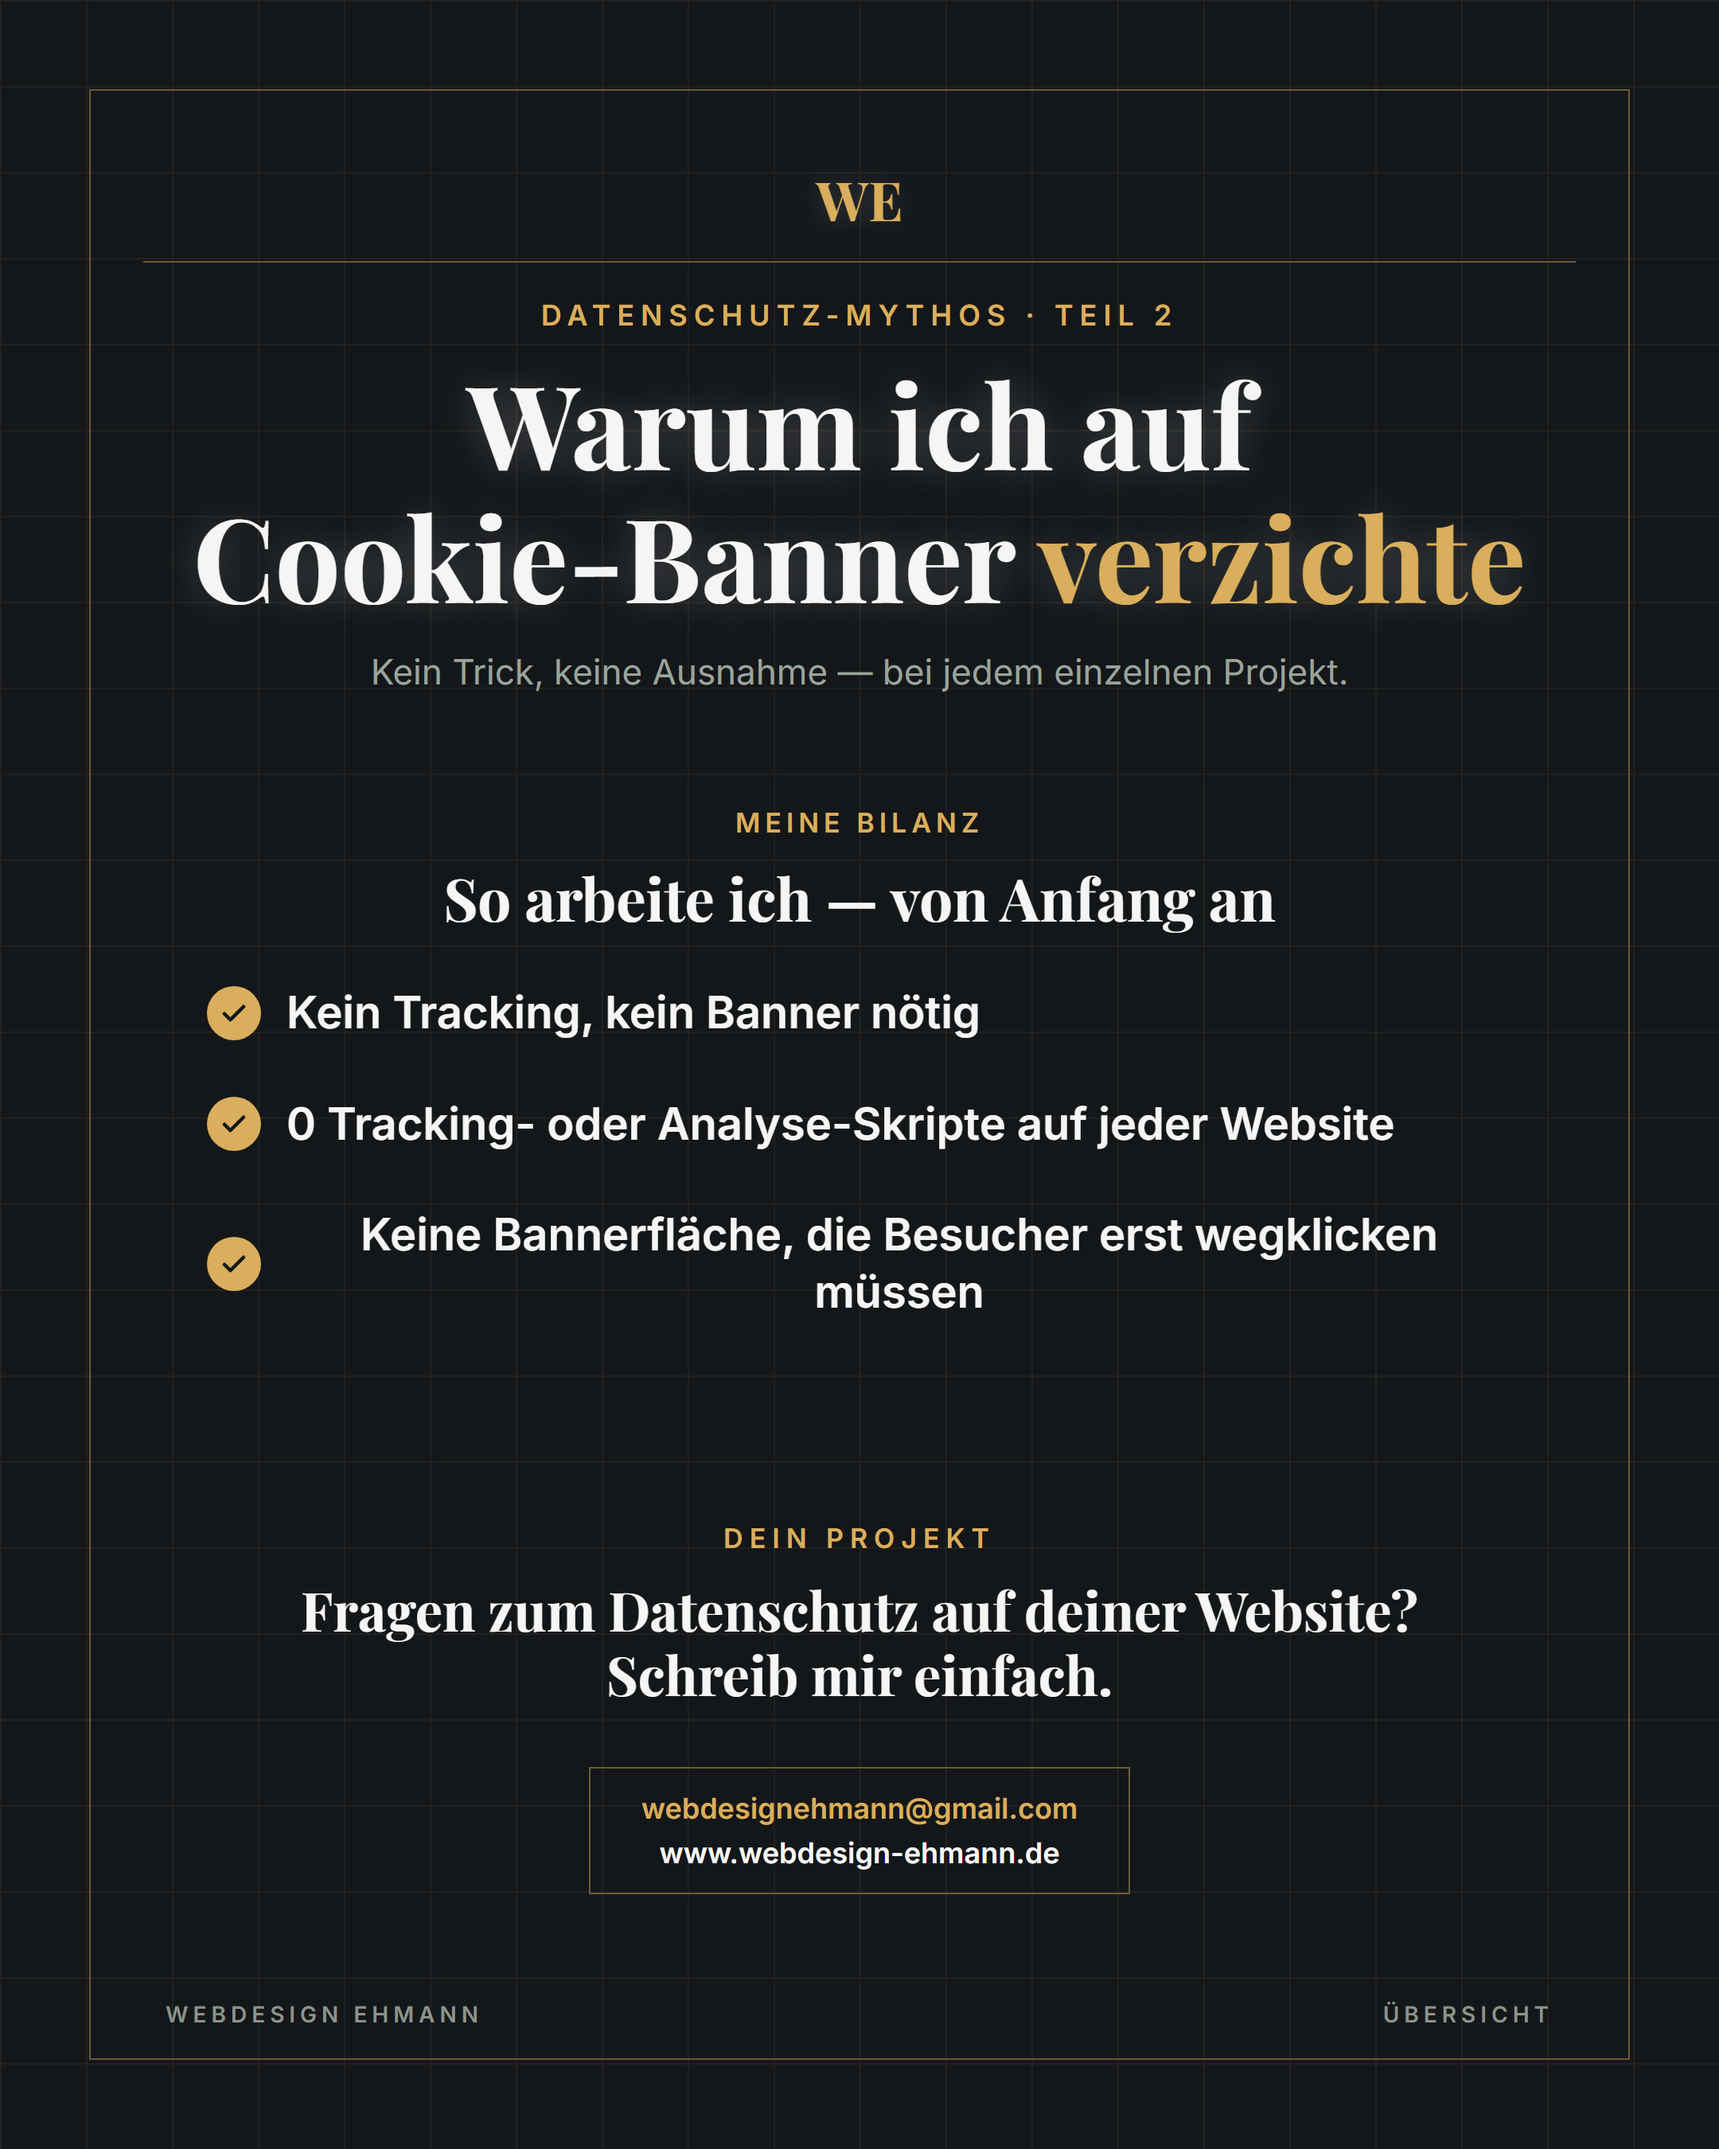
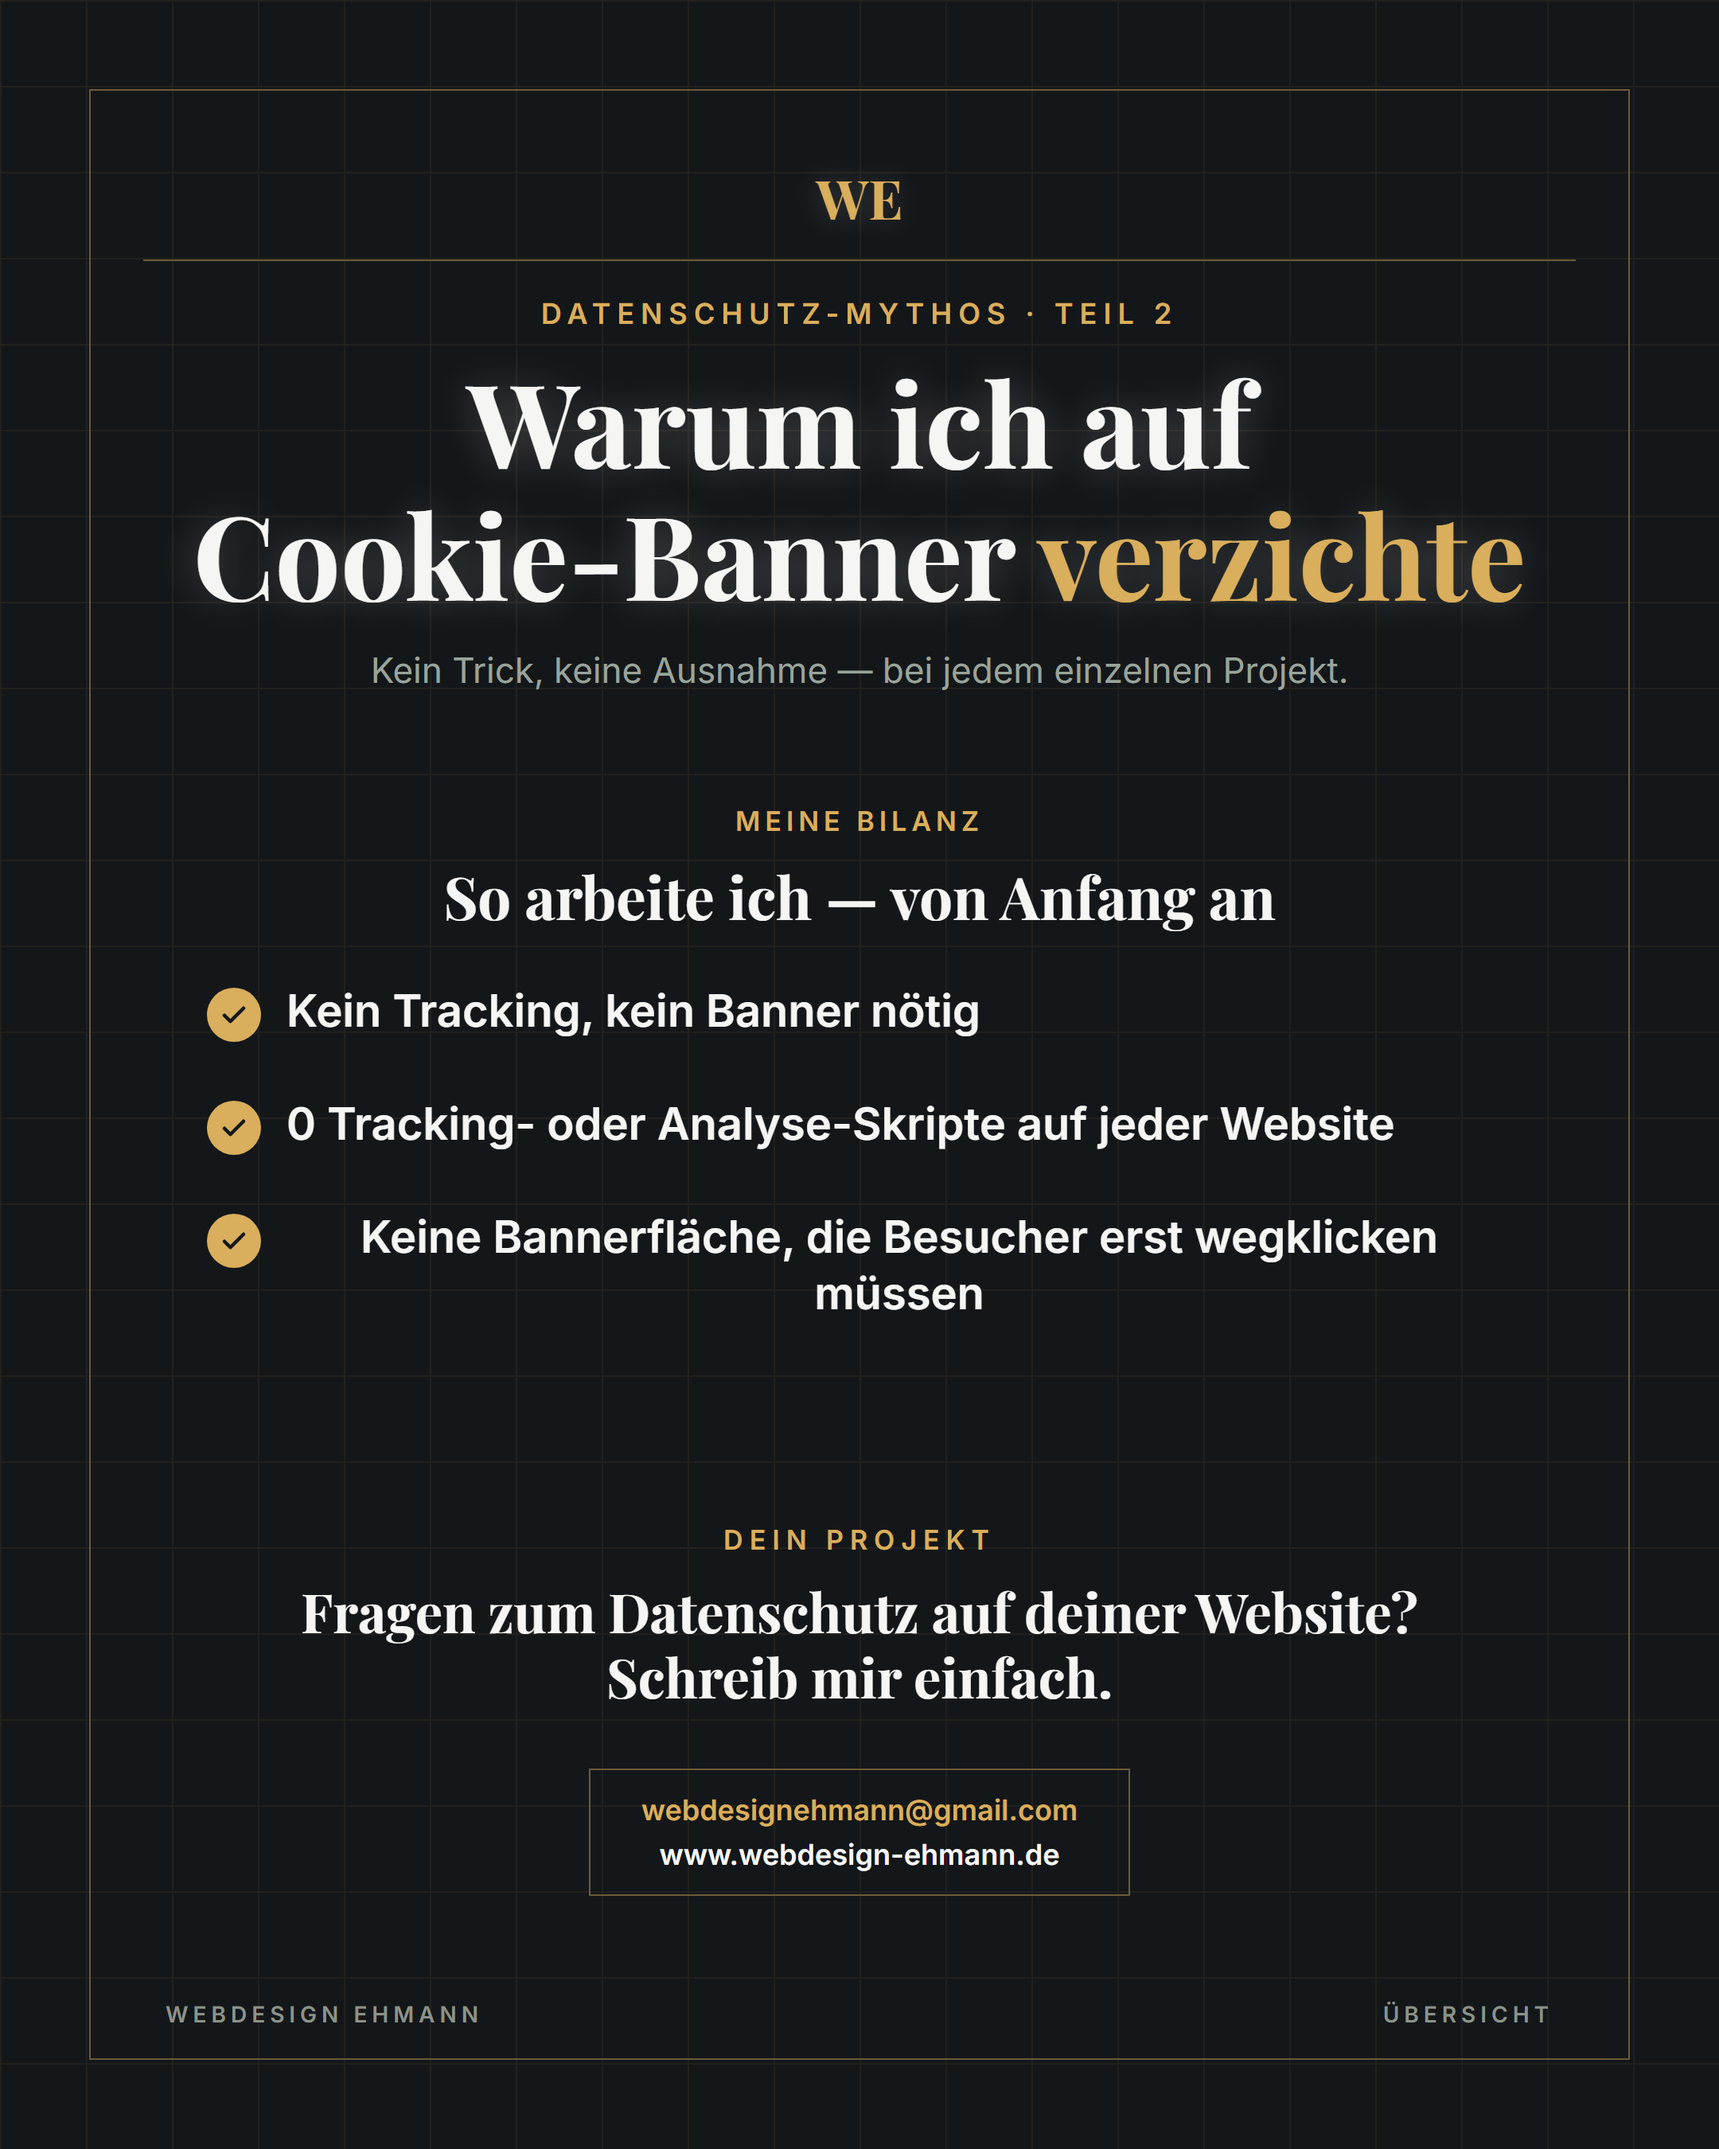
Instagram-Uebersicht: Checkmark-Badge bei umbrechenden Punkten korrigiert
Badge war bei zweizeiligen Checklisten-Punkten mittig zur ganzen
Textbloecken ausgerichtet (align-items:center) statt an der ersten
Zeile - dadurch stand es zu tief und wirkte von den anderen Punkten
losgeloest. Jetzt wieder oben an der ersten Zeile ausgerichtet
(align-items:flex-start), wie bei den einzeiligen Punkten.

diff --git a/assets/marketing/instagram-posts/_build/overview-generic.js b/assets/marketing/instagram-posts/_build/overview-generic.js
@@ -56,8 +56,8 @@ function checkIcon() {
 function pointsList(points) {
   const [colA, colB] = pointsColumns(points);
   const row = (item) => `
-    <div style="display:flex; align-items:center; gap:16px; margin-bottom:34px;">
-      <div style="flex-shrink:0;">${checkIcon()}</div>
+    <div style="display:flex; align-items:flex-start; gap:16px; margin-bottom:34px;">
+      <div style="flex-shrink:0; margin-top:3px;">${checkIcon()}</div>
       <div style="font-family:'Inter',sans-serif; font-weight:700; font-size:28px; line-height:1.28; color:${t.headline};">${item}</div>
     </div>`;
   if (!colB.length) {
